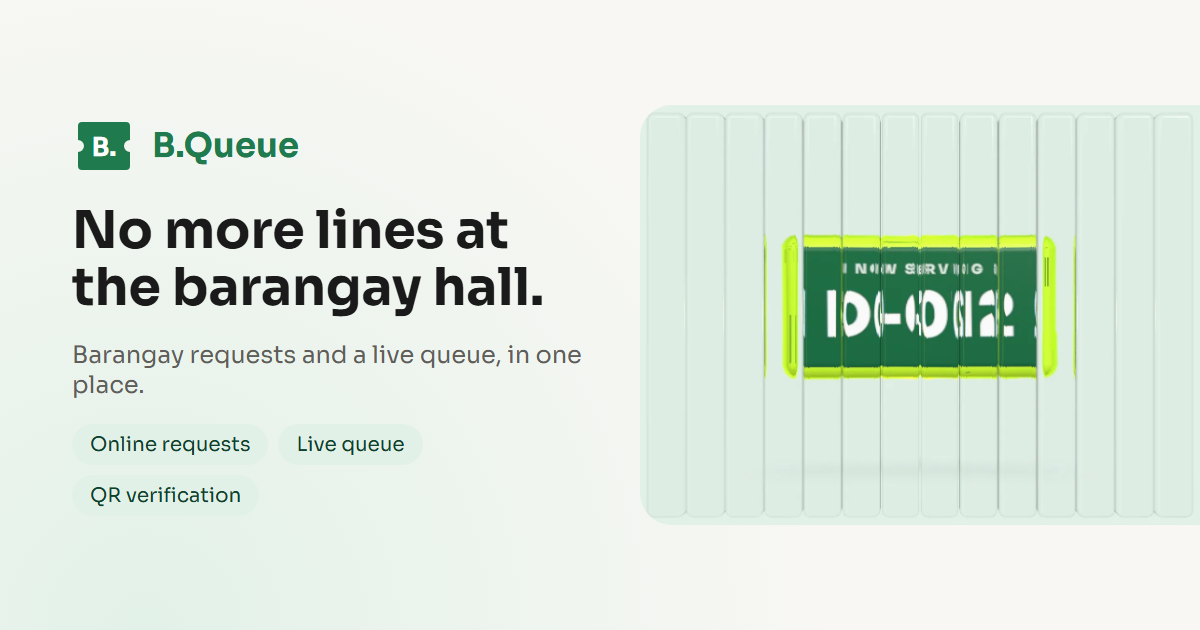
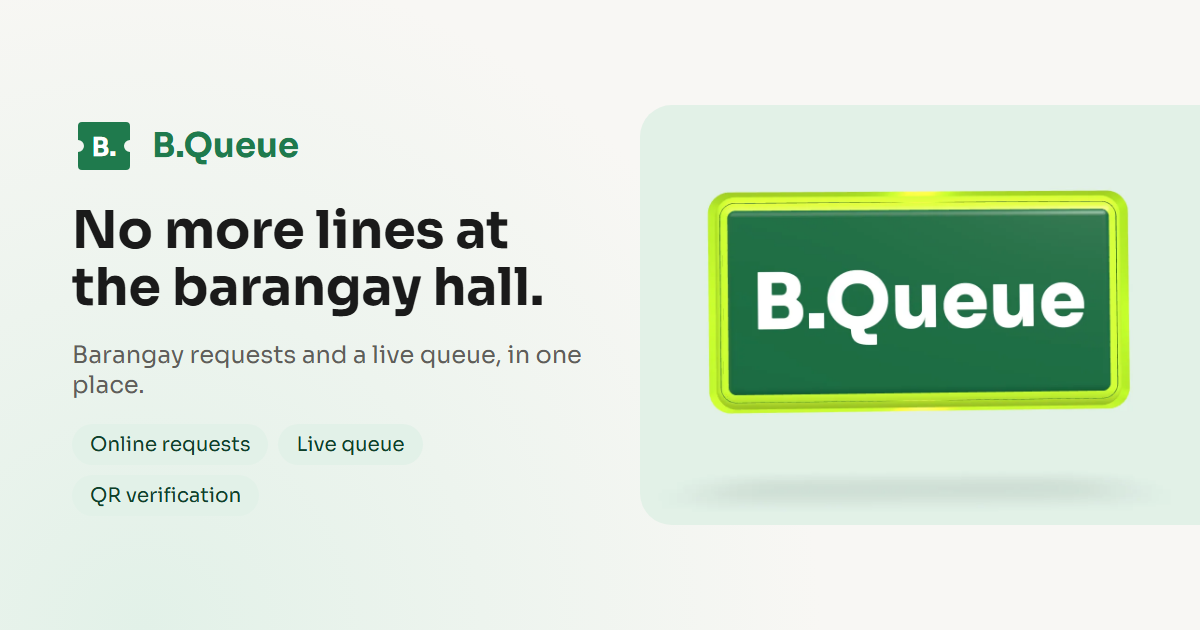
feat(web): landing ticket reads B.Queue without the glass, and spins when dragged

Changed region(s): [[0.5858, 0.3016, 0.9558, 0.6635]]

diff --git a/apps/web/src/landing/ticket3d/TicketCard.tsx b/apps/web/src/landing/ticket3d/TicketCard.tsx
@@ -2,25 +2,40 @@ import { RoundedBox, Text } from "@react-three/drei";
 import { useFrame } from "@react-three/fiber";
 import { type RefObject, useRef } from "react";
 import { type Group, MathUtils } from "three";
+import { type Spin, stepSpin } from "./dragSpin";
 
 const FONT = "/fonts/ticket.woff";
 const TILT = 0.18;
 
 /**
- * The forest-green ticket with a lime rim: D-012 on the front, D-013 on the back. The pointer tilts it (damped) and
- * `flipped` turns it 180° on a spring, so scrolling past the hero calls the next number (spec 11.4).
+ * The forest-green ticket with a lime rim and the brand on both faces. The pointer tilts it (damped), a held mouse
+ * button or finger spins it (`spin`, settling back facing front), and `flipped` turns it 180° on a spring when the
+ * page scrolls past the hero.
  */
-export function TicketCard({ pointer, flipped }: { pointer: RefObject<{ x: number; y: number }>; flipped: RefObject<boolean> }) {
+export function TicketCard({
+  pointer,
+  flipped,
+  spin,
+}: {
+  pointer: RefObject<{ x: number; y: number }>;
+  flipped: RefObject<boolean>;
+  spin: RefObject<Spin>;
+}) {
   const tilt = useRef<Group>(null);
+  const turn = useRef<Group>(null);
   const flip = useRef<Group>(null);
   const spring = useRef({ angle: 0, velocity: 0 });
 
   useFrame((_, delta) => {
     const dt = Math.min(delta, 1 / 30);
+    // While dragging, the drag owns the rotation and the hover tilt rests.
+    const held = spin.current.dragging;
     if (tilt.current) {
-      tilt.current.rotation.y = MathUtils.damp(tilt.current.rotation.y, pointer.current.x * TILT, 4, dt);
-      tilt.current.rotation.x = MathUtils.damp(tilt.current.rotation.x, -pointer.current.y * TILT, 4, dt);
+      tilt.current.rotation.y = MathUtils.damp(tilt.current.rotation.y, held ? 0 : pointer.current.x * TILT, 4, dt);
+      tilt.current.rotation.x = MathUtils.damp(tilt.current.rotation.x, held ? 0 : -pointer.current.y * TILT, 4, dt);
     }
+    stepSpin(spin.current, dt);
+    turn.current?.rotation.set(spin.current.x, spin.current.y, 0);
     const s = spring.current;
     const target = flipped.current ? Math.PI : 0;
     // A slightly underdamped spring: a short overshoot, then rest.
@@ -31,28 +46,27 @@ export function TicketCard({ pointer, flipped }: { pointer: RefObject<{ x: numbe
 
   return (
     <group ref={tilt}>
-      <group ref={flip}>
-        <RoundedBox args={[2.72, 1.42, 0.1]} radius={0.14} smoothness={4} position={[0, 0, 0]}>
-          <meshStandardMaterial color="#C6F432" emissive="#C6F432" emissiveIntensity={0.35} roughness={0.4} />
-        </RoundedBox>
-        <RoundedBox args={[2.6, 1.3, 0.12]} radius={0.1} smoothness={4}>
-          <meshStandardMaterial color="#1F7A4D" roughness={0.35} metalness={0.05} />
-        </RoundedBox>
-        <Face code="D-012" z={0.065} />
-        <Face code="D-013" z={-0.065} back />
+      <group ref={turn}>
+        <group ref={flip}>
+          <RoundedBox args={[2.72, 1.42, 0.1]} radius={0.14} smoothness={4} position={[0, 0, 0]}>
+            <meshStandardMaterial color="#C6F432" emissive="#C6F432" emissiveIntensity={0.35} roughness={0.4} />
+          </RoundedBox>
+          <RoundedBox args={[2.6, 1.3, 0.12]} radius={0.1} smoothness={4}>
+            <meshStandardMaterial color="#1F7A4D" roughness={0.35} metalness={0.05} />
+          </RoundedBox>
+          <Face z={0.065} />
+          <Face z={-0.065} back />
+        </group>
       </group>
     </group>
   );
 }
 
-function Face({ code, z, back = false }: { code: string; z: number; back?: boolean }) {
+function Face({ z, back = false }: { z: number; back?: boolean }) {
   return (
     <group position={[0, 0, z]} rotation={[0, back ? Math.PI : 0, 0]}>
-      <Text font={FONT} fontSize={0.13} letterSpacing={0.2} color="#E2F1E8" anchorX="center" anchorY="middle" position={[0, 0.38, 0]}>
-        NOW SERVING
-      </Text>
-      <Text font={FONT} fontSize={0.62} color="#FFFFFF" anchorX="center" anchorY="middle" position={[0, -0.08, 0]}>
-        {code}
+      <Text font={FONT} fontSize={0.5} maxWidth={2.3} color="#FFFFFF" anchorX="center" anchorY="middle">
+        B.Queue
       </Text>
     </group>
   );

diff --git a/apps/web/src/landing/ticket3d/TicketScene.tsx b/apps/web/src/landing/ticket3d/TicketScene.tsx
@@ -4,8 +4,8 @@ import { ContactShadows, Environment, Float, Lightformer } from "@react-three/dr
 import { Canvas } from "@react-three/fiber";
 import { type RefObject, useEffect, useRef, useState, useSyncExternalStore } from "react";
 import { STILL_ALT } from "../TicketStage";
+import { createSpin, dragBy, release } from "./dragSpin";
 import { qualityFor } from "./quality";
-import { Slats } from "./Slats";
 import { TicketCard } from "./TicketCard";
 import { useScrollFlip } from "./useScrollFlip";
 
@@ -28,12 +28,14 @@ function useScenePaused(stage: RefObject<Element | null>): boolean {
   return hidden || outOfView;
 }
 
-/** Spec 11.4: the ticket behind reeded glass on a mint backdrop. TicketStage loads this chunk only where it plays. */
+/** The landing's floating B.Queue ticket on a mint backdrop. TicketStage loads this chunk only where it plays. */
 export function TicketScene() {
   const stage = useRef<HTMLDivElement>(null);
   const paused = useScenePaused(stage);
   const flipped = useScrollFlip(stage);
   const pointer = useRef({ x: 0, y: 0 });
+  const spin = useRef(createSpin());
+  const last = useRef<{ x: number; y: number; touch: boolean } | null>(null);
   const [quality] = useState(() => qualityFor(window.innerWidth));
 
   useEffect(() => {
@@ -48,13 +50,38 @@ export function TicketScene() {
   }, []);
 
   return (
-    <div ref={stage} role="img" aria-label={STILL_ALT} className="size-full">
+    <div
+      ref={stage}
+      role="img"
+      aria-label={STILL_ALT}
+      // Hold the mouse button (or drag a finger sideways) to spin the ticket; vertical swipes still scroll the page.
+      className="size-full cursor-grab touch-pan-y select-none active:cursor-grabbing"
+      onPointerDown={(e) => {
+        if (e.pointerType === "mouse" && e.button !== 0) return;
+        e.currentTarget.setPointerCapture(e.pointerId);
+        last.current = { x: e.clientX, y: e.clientY, touch: e.pointerType !== "mouse" };
+      }}
+      onPointerMove={(e) => {
+        const from = last.current;
+        if (!from) return;
+        dragBy(spin.current, e.clientX - from.x, from.touch ? 0 : e.clientY - from.y);
+        last.current = { ...from, x: e.clientX, y: e.clientY };
+      }}
+      onPointerUp={() => {
+        last.current = null;
+        release(spin.current);
+      }}
+      onPointerCancel={() => {
+        last.current = null;
+        release(spin.current);
+      }}
+    >
       <Canvas
         // No tone mapping: the mint and the forest green stay the token colours instead of washing to grey.
         flat
         dpr={quality.dpr}
         frameloop={paused ? "never" : "always"}
-        camera={{ position: [0, 0, 6.2], fov: 35 }}
+        camera={{ position: [0, 0, 4.4], fov: 35 }}
         gl={{ antialias: true, powerPreference: "low-power" }}
       >
         <color attach="background" args={["#E2F1E8"]} />
@@ -65,13 +92,12 @@ export function TicketScene() {
           <Lightformer intensity={2} position={[0, 3, 4]} scale={[8, 2, 1]} />
           <Lightformer intensity={1} color="#C6F432" position={[-4, 0, 2]} scale={[2, 6, 1]} />
         </Environment>
-        <group position={[0, 0.05, -0.7]}>
+        <group position={[0, 0.05, 0]}>
           <Float speed={1.2} rotationIntensity={0.2} floatIntensity={0.4}>
-            <TicketCard pointer={pointer} flipped={flipped} />
+            <TicketCard pointer={pointer} flipped={flipped} spin={spin} />
           </Float>
         </group>
-        <Slats count={quality.slats} resolution={quality.resolution} samples={quality.samples} />
-        <ContactShadows position={[0, -1.55, 0]} opacity={0.35} blur={2.6} scale={9} far={3} color="#0F4029" />
+        <ContactShadows position={[0, -1.15, 0]} opacity={0.35} blur={2.6} scale={9} far={3} color="#0F4029" />
       </Canvas>
     </div>
   );

diff --git a/apps/web/src/landing/ticket3d/dragSpin.ts b/apps/web/src/landing/ticket3d/dragSpin.ts
@@ -1,0 +1,42 @@
+/**
+ * Click-and-drag spin for the landing ticket. While held, the pointer turns it (sideways on Y, up and down on X);
+ * on release it keeps a little momentum, then a damped spring settles it facing front on the nearest whole turn,
+ * so "B.Queue" always reads when it rests.
+ */
+export type Spin = { x: number; y: number; vx: number; vy: number; dragging: boolean };
+
+const RAD_PER_PX = 0.01;
+// How much of the last drag step carries on after release, in rad/s per rad moved.
+const MOMENTUM = 10;
+const STIFFNESS = 25;
+const DAMPING = 7;
+const TURN = 2 * Math.PI;
+
+export const createSpin = (): Spin => ({ x: 0, y: 0, vx: 0, vy: 0, dragging: false });
+
+export function restAngle(angle: number): number {
+  return Math.round(angle / TURN) * TURN || 0;
+}
+
+/** One pointer move of (dx, dy) pixels while the button is held. */
+export function dragBy(s: Spin, dx: number, dy: number): void {
+  s.dragging = true;
+  s.y += dx * RAD_PER_PX;
+  s.x += dy * RAD_PER_PX;
+  s.vy = dx * RAD_PER_PX * MOMENTUM;
+  s.vx = dy * RAD_PER_PX * MOMENTUM;
+}
+
+export function release(s: Spin): void {
+  s.dragging = false;
+}
+
+/** Advances the spring by dt seconds; a held ticket stays where the pointer put it. */
+export function stepSpin(s: Spin, dt: number): void {
+  if (s.dragging) return;
+  const step = Math.min(dt, 1 / 30);
+  s.vy += ((restAngle(s.y) - s.y) * STIFFNESS - s.vy * DAMPING) * step;
+  s.vx += ((0 - s.x) * STIFFNESS - s.vx * DAMPING) * step;
+  s.y += s.vy * step;
+  s.x += s.vx * step;
+}

diff --git a/apps/web/test/dragSpin.test.ts b/apps/web/test/dragSpin.test.ts
@@ -1,0 +1,36 @@
+import { describe, expect, it } from "vitest";
+import { createSpin, dragBy, release, restAngle, stepSpin } from "../src/landing/ticket3d/dragSpin";
+
+const run = (s: ReturnType<typeof createSpin>, seconds: number) => {
+  for (let t = 0; t < seconds; t += 1 / 60) stepSpin(s, 1 / 60);
+};
+
+describe("drag to spin the ticket", () => {
+  it("turns with the pointer while held: sideways on Y, up and down on X", () => {
+    const s = createSpin();
+    dragBy(s, 100, 0);
+    expect(s.y).toBeCloseTo(1, 5);
+    dragBy(s, 0, -50);
+    expect(s.x).toBeCloseTo(-0.5, 5);
+    run(s, 1);
+    expect(s.y).toBeCloseTo(1, 5);
+  });
+
+  it("keeps spinning a little after release, then settles facing front on the nearest full turn", () => {
+    const s = createSpin();
+    for (let i = 0; i < 10; i++) dragBy(s, 70, 0);
+    release(s);
+    stepSpin(s, 1 / 60);
+    expect(s.y).toBeGreaterThan(7);
+    run(s, 6);
+    expect(s.y).toBeCloseTo(restAngle(s.y), 2);
+    expect(Math.abs(s.y - 2 * Math.PI)).toBeLessThan(0.02);
+    expect(s.x).toBeCloseTo(0, 2);
+  });
+
+  it("rests on the nearest whole turn", () => {
+    expect(restAngle(0.4)).toBe(0);
+    expect(restAngle(3.5)).toBeCloseTo(2 * Math.PI);
+    expect(restAngle(-3.5)).toBeCloseTo(-2 * Math.PI);
+  });
+});

diff --git a/apps/web/src/landing/Hero.tsx b/apps/web/src/landing/Hero.tsx
@@ -51,15 +51,12 @@ function FloatingCard({ className, label, value, hint }: { className: string; la
   );
 }
 
-/** The ticket the 3D stage shows, drawn flat: what visitors see before the scene loads or without WebGL. */
+/** The B.Queue ticket drawn flat, for a Hero without a stage. */
 export function TicketStill() {
-  const t = useTranslations("landing");
   return (
     <div className="grid size-full place-items-center rounded-card bg-gradient-to-br from-accent-tint to-bg">
       <div className="flex w-4/5 flex-col items-center gap-2 rounded-[28px] bg-accent px-6 py-8 text-on-accent shadow-card ring-2 ring-lime sm:w-3/5 sm:px-8 sm:py-10">
-        <span className="whitespace-nowrap text-xs font-semibold uppercase tracking-[0.15em] sm:text-sm sm:tracking-[0.2em]">{t("ticketLabel")}</span>
-        <span className="font-heading text-5xl font-bold sm:text-7xl">D-012</span>
-        <span className="text-sm opacity-90">{t("ticketCounter")}</span>
+        <span className="font-heading text-5xl font-bold sm:text-7xl">B.Queue</span>
       </div>
     </div>
   );

diff --git a/apps/web/src/landing/TicketStage.tsx b/apps/web/src/landing/TicketStage.tsx
@@ -3,7 +3,7 @@
 import { Component, lazy, type ReactNode, Suspense, useEffect, useState, useSyncExternalStore } from "react";
 
 const STILL_SRC = "/ticket-still.webp";
-export const STILL_ALT = "A green B.Queue ticket, D-012, behind ribbed glass";
+export const STILL_ALT = "A green B.Queue ticket";
 const REDUCE_MOTION = "(prefers-reduced-motion: reduce)";
 
 // three.js is most of the landing's weight, so the scene is its own chunk, fetched only when it will play.
@@ -56,7 +56,7 @@ class SceneBoundary extends Component<{ fallback: ReactNode; children: ReactNode
 }
 
 /**
- * Spec 11.4: the reeded-glass ticket, or its still picture under reduced motion or without WebGL. The still shows
+ * The floating B.Queue ticket, or its still picture under reduced motion or without WebGL. The still shows
  * until the visitor moves and the chunk arrives, and stays behind the canvas until it draws.
  */
 export function TicketStage() {

diff --git a/apps/web/test/quality.test.ts b/apps/web/test/quality.test.ts
@@ -2,13 +2,8 @@ import { describe, expect, it } from "vitest";
 import { qualityFor } from "../src/landing/ticket3d/quality";
 
 describe("3D quality by screen width", () => {
-  it("draws less on a phone", () => {
-    expect(qualityFor(375)).toEqual({ slats: 8, resolution: 256, samples: 3, dpr: [1, 1.5] });
-    expect(qualityFor(767).slats).toBe(8);
-  });
-
-  it("draws the full scene from 768 px", () => {
-    expect(qualityFor(768)).toEqual({ slats: 14, resolution: 512, samples: 6, dpr: [1, 1.5] });
-    expect(qualityFor(1440)).toEqual({ slats: 14, resolution: 512, samples: 6, dpr: [1, 1.5] });
+  it("caps the pixel ratio at 1.5 on every screen", () => {
+    expect(qualityFor(375)).toEqual({ dpr: [1, 1.5] });
+    expect(qualityFor(1440)).toEqual({ dpr: [1, 1.5] });
   });
 });

diff --git a/apps/web/src/landing/ticket3d/quality.ts b/apps/web/src/landing/ticket3d/quality.ts
@@ -1,6 +1,6 @@
-export type Quality = { slats: number; resolution: number; samples: number; dpr: [number, number] };
+export type Quality = { dpr: [number, number] };
 
-/** Spec 11.4: phones get fewer slats and a smaller transmission buffer; the pixel ratio is capped at 1.5 everywhere. */
-export function qualityFor(width: number): Quality {
-  return width < 768 ? { slats: 8, resolution: 256, samples: 3, dpr: [1, 1.5] } : { slats: 14, resolution: 512, samples: 6, dpr: [1, 1.5] };
+/** The pixel ratio is capped at 1.5 on every screen, which keeps phones fast. */
+export function qualityFor(_width: number): Quality {
+  return { dpr: [1, 1.5] };
 }

diff --git a/e2e/a11y.spec.ts b/e2e/a11y.spec.ts
@@ -53,7 +53,7 @@ test("with reduced motion the landing shows only the still picture", async ({ br
   await page.goto("/");
   await page.keyboard.press("Shift");
   await page.mouse.move(200, 200);
-  await expect(page.getByRole("img", { name: "A green B.Queue ticket, D-012, behind ribbed glass" })).toBeVisible();
+  await expect(page.getByRole("img", { name: "A green B.Queue ticket" })).toBeVisible();
   await page.waitForTimeout(1_000);
   await expect(page.getByTestId("ticket-canvas")).toHaveCount(0);
   await context.close();

diff --git a/apps/web/test/ticketStage.test.tsx b/apps/web/test/ticketStage.test.tsx
@@ -20,7 +20,7 @@ function setWebgl(works: boolean) {
     (() => (works ? { getExtension: () => ({ loseContext: () => undefined }) } : null)) as unknown as HTMLCanvasElement["getContext"],
   );
 }
-const ALT = "A green B.Queue ticket, D-012, behind ribbed glass";
+const ALT = "A green B.Queue ticket";
 
 describe("ticket stage", () => {
   beforeEach(() => {
